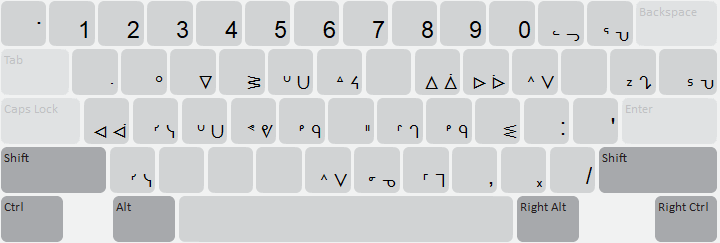
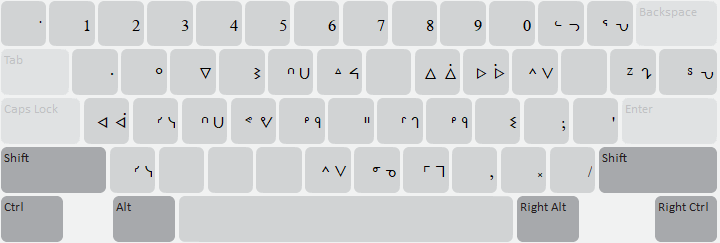
corrected OSK, corrected documentation

diff --git a/release/fv/fv_ojibwa_ifinal_rdot/source/welcome/welcome.htm b/release/fv/fv_ojibwa_ifinal_rdot/source/welcome/welcome.htm
@@ -26,7 +26,7 @@ a:active {	color: rgb(102,117,184); text-decoration:none;}
 					 
 <ul>
 	<li>The on-screen keyboard shows each syllable in their final form and in their e-orientation, or in their short and long form (vowels).</li>
-	<li>The syllabics used to write ᐊᓂᔑᓇᐯᒧᐏᣙ (Ojibwa) are typed primarily by writing their long-vowel equivalents, with a few exceptions. See <a href=Ojibwa_ifinal_rdot.pdf>this document</a> for a full list of how to type each syllable with this keyboard, and all of the special key combinations.
+	<li>The syllabics used to write ᐊᓂᔑᓇᐯᒧᐏᣙ (Ojibwa) are typed primarily by writing their long-vowel equivalents, with a few exceptions. See <a href=Ojibwa_ifinal_rdot.pdf>this document</a> for a full list of how to type each syllable with this keyboard, and all of the special key combinations.</li>
 		<ul>
 			<li>By typing a single consonant or a key that's assigned to a consonant, the syllable final form will appear on screen. Following the consonant with a vowel will change the syllable final into its full form in the orientation corresponding with the vowel typed.</li>
 				<ul>
@@ -36,11 +36,11 @@ a:active {	color: rgb(102,117,184); text-decoration:none;}
 				<ul>
 					<li><b>ᑳ</b> is typed <b>kaa</b> or <b>gaa</b></li>
 				</ul>
-			<li>To add the w-dot, type the w after the first consonant</li>
+			<li>To add the w-dot, type the w after the first consonant.</li>
 				<ul>
 					<li><b>ᐃᣖᐍ</b> is typed <b>ik[we</b> or <b>ig[we</b></li>
 				</ul>
-			<li>The syllabics sets for sh- / zh- (ᔐᔑᔓᔕᔥ), ch- (ᒉᒋᒍᒐᒡ), and th- (ᕞᕠᕤᕦᕪ) are typed by SHIFT + the first letter of each sound (s, z, and t)</li>
+			<li>The syllabics sets for sh- / zh- (ᔐᔑᔓᔕᔥ), ch- (ᒉᒋᒍᒐᒡ), and th- (ᕞᕠᕤᕦᕪ) are typed by SHIFT + the first letter of each sound (s, z, and t).</li>
 				<ul>
 					<li><b>ᐊᓂᔑᓇᐯᒧᐏᣙ</b> is typed <b>aniSinabemowin</b> or <b>aniSinapemowin</b></li>
 					<li><b>ᒌᒫᣙ</b> (pointed) is typed <b>Ciimaan</b> or <b>jiimaan</b></li>
@@ -48,10 +48,10 @@ a:active {	color: rgb(102,117,184); text-decoration:none;}
 				</ul>
 		</ul>
 	</li>
-	<li>In the case of a vowel immediately after a syllable final or two vowels that need to be side by side, use the <b>left bracket key [ </b> to keep the syllables separate
+	<li>In the case of a vowel immediately after a syllable final or two vowels that need to be side by side, use the <b>left bracket key [ </b> to keep the syllables separate.</li>
 		<ul>
-			<li><b>ᐋ</b>is typed <b>aa</b></li>
-			<li><b>ᐊᐊ</b>is typed <b>a[a</b></li>
+			<li><b>ᐋ</b> is typed <b>aa</b></li>
+			<li><b>ᐊᐊ</b> is typed <b>a[a</b></li>
 			<li><b>ᐃᑵ</b> (pointed) is typed <b>ikwe</b> or <b>igwe</b></li>
 			<li><b>ᐃᣖᐍ</b> (pointed) is typed <b>ik[we</b> or <b>ig[we</b></li>
 		</ul>
@@ -59,22 +59,24 @@ a:active {	color: rgb(102,117,184); text-decoration:none;}
 	<p></p>
 
 <h2>Punctuation</h2>
+	<ul>
 		<li>A standalone above dot indicating vowel length can be typed with the Backquote key `</li>
 		<li>A standalone w-dot can be typed with the q key.</li>
 			<ul>
-				<li><b>NOTE:</b> the dot indicating a long vowel and the w-dot do not need to be typed for the majority of syllables on the keyboard. They are provided as an option for syllables that do not have a single character that contains the syllable and one or both dots, ie; ᕙᐧ</li>
+				<li><b>NOTE:</b> the dot indicating a long vowel and the w-dot do not need to be typed for the majority of syllables on the keyboard. They are provided as an option for syllables that do not have a single character that contains the syllable and one or both dots, ie; ᕙᐧ.</li>
 			</ul>
 		<li><b>᙮</b> is typed with the period key .</li>
 		<li>single guillement: ‹ Right-Alt+Semicolon key ; — › Right-Alt+Quote '</li>
 		<li>double guillemets: « Shift+Right-Alt+Semicolon key ; — » Shift+Right-Alt+Quote '</li>
-		<li>Any modified punctuation can be typed using <b>Right-Alt</b>(Windows) or <b>Option</b>(Mac) + the original key</li>
+		<li>Any modified punctuation can be typed using <b>Right-Alt</b>(Windows) or <b>Option</b>(Mac) + the original key.</li>
 			<ul>
 				<li><b>.</b> is typed Right-Alt / Option + Period key . </li>
 				<li><b>-</b> is typed Right-Alt / Option + Hyphen key -</li>
-				<li><b>{</b> is typed Shift+Right-Alt / Option + Left-Bracket [ key</li>
+				<li><b>+</b> is typed Shift+Right-Alt / Option + Equal key =</li>
 			</ul>
-		<li>All English letters can be typed by pressing <b>Right-Alt / Option </b> followed by the letter(s) you wish to type</li>
-		<li>All uppercase English letters can be typed by pressing <b>Right-Alt / Option</b> followed by the letter(s) you wish to type</li>
+		<li>All English letters can be typed by pressing <b>Right-Alt / Option </b> followed by the letter(s) you wish to type.</li>
+		<li>All uppercase English letters can be typed by pressing <b>Shift+Right-Alt / Option</b> followed by the letter(s) you wish to type.</li>
+	</ul>
 
 		<h2>Unicode Fonts</h2>
 						<p>The following fonts have been installed on your computer: <strong>Aboriginal Serif.</strong> Please use this font when typing in your language as it has been specially built to represent your language as accurately as possible. </p>
@@ -86,7 +88,7 @@ a:active {	color: rgb(102,117,184); text-decoration:none;}
     <td valign="middle"><a href="http://www.languagegeek.com"><img src="lgBlue162x31.png" width="162" height="31" border="0"/></a></td>
   </tr>
   <tr>
-    <td colspan="2"><p class="legalese">Development of this keyboard layout was funded by FirstVoices and the First Peoples’ Heritage Language and Culture Council. This keyboard is provided free of charge. </p></td>
+    <td colspan="2"><p class="legalese">Development of this keyboard layout was funded by FirstVoices and the First Peoples’ Cultural Council. This keyboard is provided free of charge. </p></td>
   </tr>
 </table>
 

diff --git a/release/fv/fv_ojibwa_ifinal_rdot/source/fv_ojibwa_ifinal_rdot-help.htm b/release/fv/fv_ojibwa_ifinal_rdot/source/fv_ojibwa_ifinal_rdot-help.htm
@@ -26,7 +26,7 @@ a:active {	color: rgb(102,117,184); text-decoration:none;}
 					 
 <ul>
 	<li>The on-screen keyboard shows each syllable in their final form and in their e-orientation, or in their short and long form (vowels).</li>
-	<li>The syllabics used to write ᐊᓂᔑᓇᐯᒧᐏᣙ (Ojibwa) are typed primarily by writing their long-vowel equivalents, with a few exceptions. See <a href=Ojibwa_ifinal_rdot.pdf>this document</a> for a full list of how to type each syllable with this keyboard, and all of the special key combinations.
+	<li>The syllabics used to write ᐊᓂᔑᓇᐯᒧᐏᣙ (Ojibwa) are typed primarily by writing their long-vowel equivalents, with a few exceptions. See <a href=Ojibwa_ifinal_rdot.pdf>this document</a> for a full list of how to type each syllable with this keyboard, and all of the special key combinations.</li>
 		<ul>
 			<li>By typing a single consonant or a key that's assigned to a consonant, the syllable final form will appear on screen. Following the consonant with a vowel will change the syllable final into its full form in the orientation corresponding with the vowel typed.</li>
 				<ul>
@@ -36,11 +36,11 @@ a:active {	color: rgb(102,117,184); text-decoration:none;}
 				<ul>
 					<li><b>ᑳ</b> is typed <b>kaa</b> or <b>gaa</b></li>
 				</ul>
-			<li>To add the w-dot, type the w after the first consonant</li>
+			<li>To add the w-dot, type the w after the first consonant.</li>
 				<ul>
 					<li><b>ᐃᣖᐍ</b> is typed <b>ik[we</b> or <b>ig[we</b></li>
 				</ul>
-			<li>The syllabics sets for sh- / zh- (ᔐᔑᔓᔕᔥ), ch- (ᒉᒋᒍᒐᒡ), and th- (ᕞᕠᕤᕦᕪ) are typed by SHIFT + the first letter of each sound (s, z, and t)</li>
+			<li>The syllabics sets for sh- / zh- (ᔐᔑᔓᔕᔥ), ch- (ᒉᒋᒍᒐᒡ), and th- (ᕞᕠᕤᕦᕪ) are typed by SHIFT + the first letter of each sound (s, z, and t).</li>
 				<ul>
 					<li><b>ᐊᓂᔑᓇᐯᒧᐏᣙ</b> is typed <b>aniSinabemowin</b> or <b>aniSinapemowin</b></li>
 					<li><b>ᒌᒫᣙ</b> (pointed) is typed <b>Ciimaan</b> or <b>jiimaan</b></li>
@@ -48,10 +48,10 @@ a:active {	color: rgb(102,117,184); text-decoration:none;}
 				</ul>
 		</ul>
 	</li>
-	<li>In the case of a vowel immediately after a syllable final or two vowels that need to be side by side, use the <b>left bracket key [ </b> to keep the syllables separate
+	<li>In the case of a vowel immediately after a syllable final or two vowels that need to be side by side, use the <b>left bracket key [ </b> to keep the syllables separate.</li>
 		<ul>
-			<li><b>ᐋ</b>is typed <b>aa</b></li>
-			<li><b>ᐊᐊ</b>is typed <b>a[a</b></li>
+			<li><b>ᐋ</b> is typed <b>aa</b></li>
+			<li><b>ᐊᐊ</b> is typed <b>a[a</b></li>
 			<li><b>ᐃᑵ</b> (pointed) is typed <b>ikwe</b> or <b>igwe</b></li>
 			<li><b>ᐃᣖᐍ</b> (pointed) is typed <b>ik[we</b> or <b>ig[we</b></li>
 		</ul>
@@ -59,22 +59,24 @@ a:active {	color: rgb(102,117,184); text-decoration:none;}
 	<p></p>
 
 <h2>Punctuation</h2>
+	<ul>
 		<li>A standalone above dot indicating vowel length can be typed with the Backquote key `</li>
 		<li>A standalone w-dot can be typed with the q key.</li>
 			<ul>
-				<li><b>NOTE:</b> the dot indicating a long vowel and the w-dot do not need to be typed for the majority of syllables on the keyboard. They are provided as an option for syllables that do not have a single character that contains the syllable and one or both dots, ie; ᕙᐧ</li>
+				<li><b>NOTE:</b> the dot indicating a long vowel and the w-dot do not need to be typed for the majority of syllables on the keyboard. They are provided as an option for syllables that do not have a single character that contains the syllable and one or both dots, ie; ᕙᐧ.</li>
 			</ul>
 		<li><b>᙮</b> is typed with the period key .</li>
 		<li>single guillement: ‹ Right-Alt+Semicolon key ; — › Right-Alt+Quote '</li>
 		<li>double guillemets: « Shift+Right-Alt+Semicolon key ; — » Shift+Right-Alt+Quote '</li>
-		<li>Any modified punctuation can be typed using <b>Right-Alt</b>(Windows) or <b>Option</b>(Mac) + the original key</li>
+		<li>Any modified punctuation can be typed using <b>Right-Alt</b>(Windows) or <b>Option</b>(Mac) + the original key.</li>
 			<ul>
 				<li><b>.</b> is typed Right-Alt / Option + Period key . </li>
 				<li><b>-</b> is typed Right-Alt / Option + Hyphen key -</li>
-				<li><b>{</b> is typed Shift+Right-Alt / Option + Left-Bracket [ key</li>
+				<li><b>+</b> is typed Shift+Right-Alt / Option + Equal key =</li>
 			</ul>
-		<li>All English letters can be typed by pressing <b>Right-Alt / Option </b> followed by the letter(s) you wish to type</li>
-		<li>All uppercase English letters can be typed by pressing <b>Right-Alt / Option</b> followed by the letter(s) you wish to type</li>
+		<li>All English letters can be typed by pressing <b>Right-Alt / Option </b> followed by the letter(s) you wish to type.</li>
+		<li>All uppercase English letters can be typed by pressing <b>Shift+Right-Alt / Option</b> followed by the letter(s) you wish to type.</li>
+	</ul>
 
 		<h2>Unicode Fonts</h2>
 						<p>The following fonts have been installed on your computer: <strong>Aboriginal Serif.</strong> Please use this font when typing in your language as it has been specially built to represent your language as accurately as possible.</p>
@@ -86,7 +88,7 @@ a:active {	color: rgb(102,117,184); text-decoration:none;}
     <td valign="middle"><a href="http://www.languagegeek.com"><img src="lgBlue162x31.png" width="162" height="31" border="0"/></a></td>
   </tr>
   <tr>
-    <td colspan="2"><p class="legalese">Development of this keyboard layout was funded by FirstVoices and the First Peoples’ Heritage Language and Culture Council. This keyboard is provided free of charge. </p></td>
+    <td colspan="2"><p class="legalese">Development of this keyboard layout was funded by FirstVoices and the First Peoples’ Cultural Council. This keyboard is provided free of charge. </p></td>
   </tr>
 </table>
 

diff --git a/release/fv/fv_ojibwa_ifinal_rdot/source/help/fv_ojibwa_ifinal_rdot.php b/release/fv/fv_ojibwa_ifinal_rdot/source/help/fv_ojibwa_ifinal_rdot.php
@@ -32,7 +32,7 @@ This keyboard is designed for the <b>ᐊᓂᔑᓇᐯᒧᐏᣙ</b> language of th
 <img src="fv_ojibwa_ifinal_rdot_U_.png" alt="ᐊᓂᔑᓇᐯᒧᐏᣙ" width="514" height="198" /></h2>
 <ul>
 	<li>The on-screen keyboard shows each syllable in their final form and in their e-orientation, or in their short and long form (vowels).</li>
-	<li>The syllabics used to write ᐊᓂᔑᓇᐯᒧᐏᣙ (Ojibwa) are typed primarily by writing their long-vowel equivalents, with a few exceptions. See <a href=Ojibwa__ifinal_rdot.pdf>this document</a> for a full list of how to type each syllable with this keyboard, and all of the special key combinations.
+	<li>The syllabics used to write ᐊᓂᔑᓇᐯᒧᐏᣙ (Ojibwa) are typed primarily by writing their long-vowel equivalents, with a few exceptions. See <a href=Ojibwa__ifinal_rdot.pdf>this document</a> for a full list of how to type each syllable with this keyboard, and all of the special key combinations.</li>
 		<ul>
 			<li>By typing a single consonant or a key that's assigned to a consonant, the syllable final form will appear on screen. Following the consonant with a vowel will change the syllable final into its full form in the orientation corresponding with the vowel typed.</li>
 				<ul>
@@ -42,45 +42,44 @@ This keyboard is designed for the <b>ᐊᓂᔑᓇᐯᒧᐏᣙ</b> language of th
 				<ul>
 					<li><b>ᑳ</b> is typed <b>kaa</b> or <b>gaa</b></li>
 				</ul>
-			<li>To add the w-dot, type the w after the first consonant</li>
+			<li>To add the w-dot, type the w after the first consonant.</li>
 				<ul>
-					<li><b>ᐃᣖᐍ</b> is typed <be>ik[we</b> or <b>ig[we</b></li>
+					<li><b>ᐃᣖᐍ</b> is typed <b>ik[we</b> or <b>ig[we</b></li>
 				</ul>
-			<li>The syllabics sets for sh- / zh- (ᔐᔑᔓᔕᔥ), ch- (ᒉᒋᒍᒐᒡ), and th- (ᕞᕠᕤᕦᕪ) are typed by SHIFT + the first letter of each sound (s, z, and t)</li>
+			<li>The syllabics sets for sh- / zh- (ᔐᔑᔓᔕᔥ), ch- (ᒉᒋᒍᒐᒡ), and th- (ᕞᕠᕤᕦᕪ) are typed by SHIFT + the first letter of each sound (s, z, and t).</li>
 				<ul>
 					<li><b>ᐊᓂᔑᓇᐯᒧᐏᣙ</b> is typed <b>aniSinabemowin</b> or <b>aniSinapemowin</b></li>
 					<li><b>ᒌᒫᣙ</b> (pointed) is typed <b>Ciimaan</b> or <b>jiimaan</b></li>
 					<li><b>ᒋᒪᣙ</b> (unpointed) is typed <b>Ciman</b> or <b>jiman</b></li>
 				</ul>
 		</ul>
-	</li>
-	<li>In the case of a vowel immediately after a syllable final or two vowels that need to be side by side, use the <b>left bracket key [ </b> to keep the syllables separate
+	<li>In the case of a vowel immediately after a syllable final or two vowels that need to be side by side, use the <b>left bracket key [ </b> to keep the syllables separate.</li>
 		<ul>
-			<li><b>ᐋ</b>is typed <b>aa</b></li>
-			<li><b>ᐊᐊ</b>is typed <b>a[a</b></li>
+			<li><b>ᐋ</b> is typed <b>aa</b></li>
+			<li><b>ᐊᐊ</b> is typed <b>a[a</b></li>
 			<li><b>ᐃᑵ</b> (pointed) is typed <b>ikwe</b> or <b>igwe</b></li>
 			<li><b>ᐃᣖᐍ</b> (pointed) is typed <b>ik[we</b> or <b>ig[we</b></li>
 		</ul>
-	</li>
 	<p></p>
 
 <h2>Punctuation</h2>
+	<ul>
 		<li>A standalone above dot indicating vowel length can be typed with the Backquote key `</li>
 		<li>A standalone w-dot can be typed with the q key.</li>
 			<ul>
-				<li><b>NOTE:</b> the dot indicating a long vowel and the w-dot do not need to be typed for the majority of syllables on the keyboard. They are provided as an option for syllables that do not have a single character that contains the syllable and one or both dots, ie; ᕙᐧ</li>
+				<li><b>NOTE:</b> the dot indicating a long vowel and the w-dot do not need to be typed for the majority of syllables on the keyboard. They are provided as an option for syllables that do not have a single character that contains the syllable and one or both dots, ie; ᕙᐧ.</li>
 			</ul>
 		<li><b>᙮</b> is typed with the period key .</li>
 		<li>single guillement: ‹ Right-Alt+Semicolon key ; — › Right-Alt+Quote '</li>
 		<li>double guillemets: « Shift+Right-Alt+Semicolon key ; — » Shift+Right-Alt+Quote '</li>
-		<li>Any modified punctuation can be typed using <b>Right-Alt</b>(Windows) or <b>Option</b>(Mac) + the original key</li>
+		<li>Any modified punctuation can be typed using <b>Right-Alt</b>(Windows) or <b>Option</b>(Mac) + the original key.</li>
 			<ul>
 				<li><b>.</b> is typed Right-Alt / Option + Period key . </li>
 				<li><b>-</b> is typed Right-Alt / Option + Hyphen key -</li>
-				<li><b>{</b> is typed Shift+Right-Alt / Option + Left-Bracket [ key</li>
+				<li><b>+</b> is typed Shift+Right-Alt / Option + Equal key =</li>
 			</ul>
-		<li>All English letters can be typed by pressing <b>Right-Alt / Option </b> followed by the letter(s) you wish to type</li>
-		<li>All uppercase English letters can be typed by pressing <b>Right-Alt / Option</b> followed by the letter(s) you wish to type</li>
+		<li>All English letters can be typed by pressing <b>Right-Alt / Option </b> followed by the letter(s) you wish to type.</li>
+		<li>All uppercase English letters can be typed by pressing <b>Shift+Right-Alt / Option</b> followed by the letter(s) you wish to type.</li>
 
 <h2>Unicode Fonts</h2>
 						<p>The following fonts have been installed on your computer: <strong>Aboriginal Serif.</strong> Please use this font when typing in your language as it has been specially built to represent your language as accurately as possible. </p>
@@ -130,7 +129,7 @@ This keyboard is designed for the <b>ᐊᓂᔑᓇᐯᒧᐏᣙ</b> language of th
 	<td  align='center'>123</td>
 	<td  align='center'>🌐</td>
 	<td  align='center'>ᐧ</td>
-	<td  align='center' colspan='6'>space</td>
+	<td  align='center' colspan='5'>space</td>
 	<th  align='center'>˙</th>
 	<td  align='center'>⌫</td>
 </tr>
@@ -176,7 +175,7 @@ This keyboard is designed for the <b>ᐊᓂᔑᓇᐯᒧᐏᣙ</b> language of th
 </tr>
 <tr >
 	<td  align='center'>123</td>
-	<td  align='center'>🌐/td>
+	<td  align='center'>🌐</td>
 	<td  align='center'>ᐧ</td>
 	<td  align='center' colspan='4'>space</td>
 	<td  align='center'>᙮ . , ! ? ; : ' " ` ~</td>
@@ -186,13 +185,11 @@ This keyboard is designed for the <b>ᐊᓂᔑᓇᐯᒧᐏᣙ</b> language of th
 </table>
 <div class='vspace'></div>
 <ul>
-	<li>keys with a red background are combining accents.</li>
+	<li>keys with a red background are combining accents. They will appear with green text on your mobile device.</li>
 	<li>the first character in a cell is the "one-tap" key, any further characters are "hold-select" keys.</li>
 </ul>
 <div class='vspace'></div></div>
 <div class='vspace'></div>
-
-</div>
 
 <br/>
 
